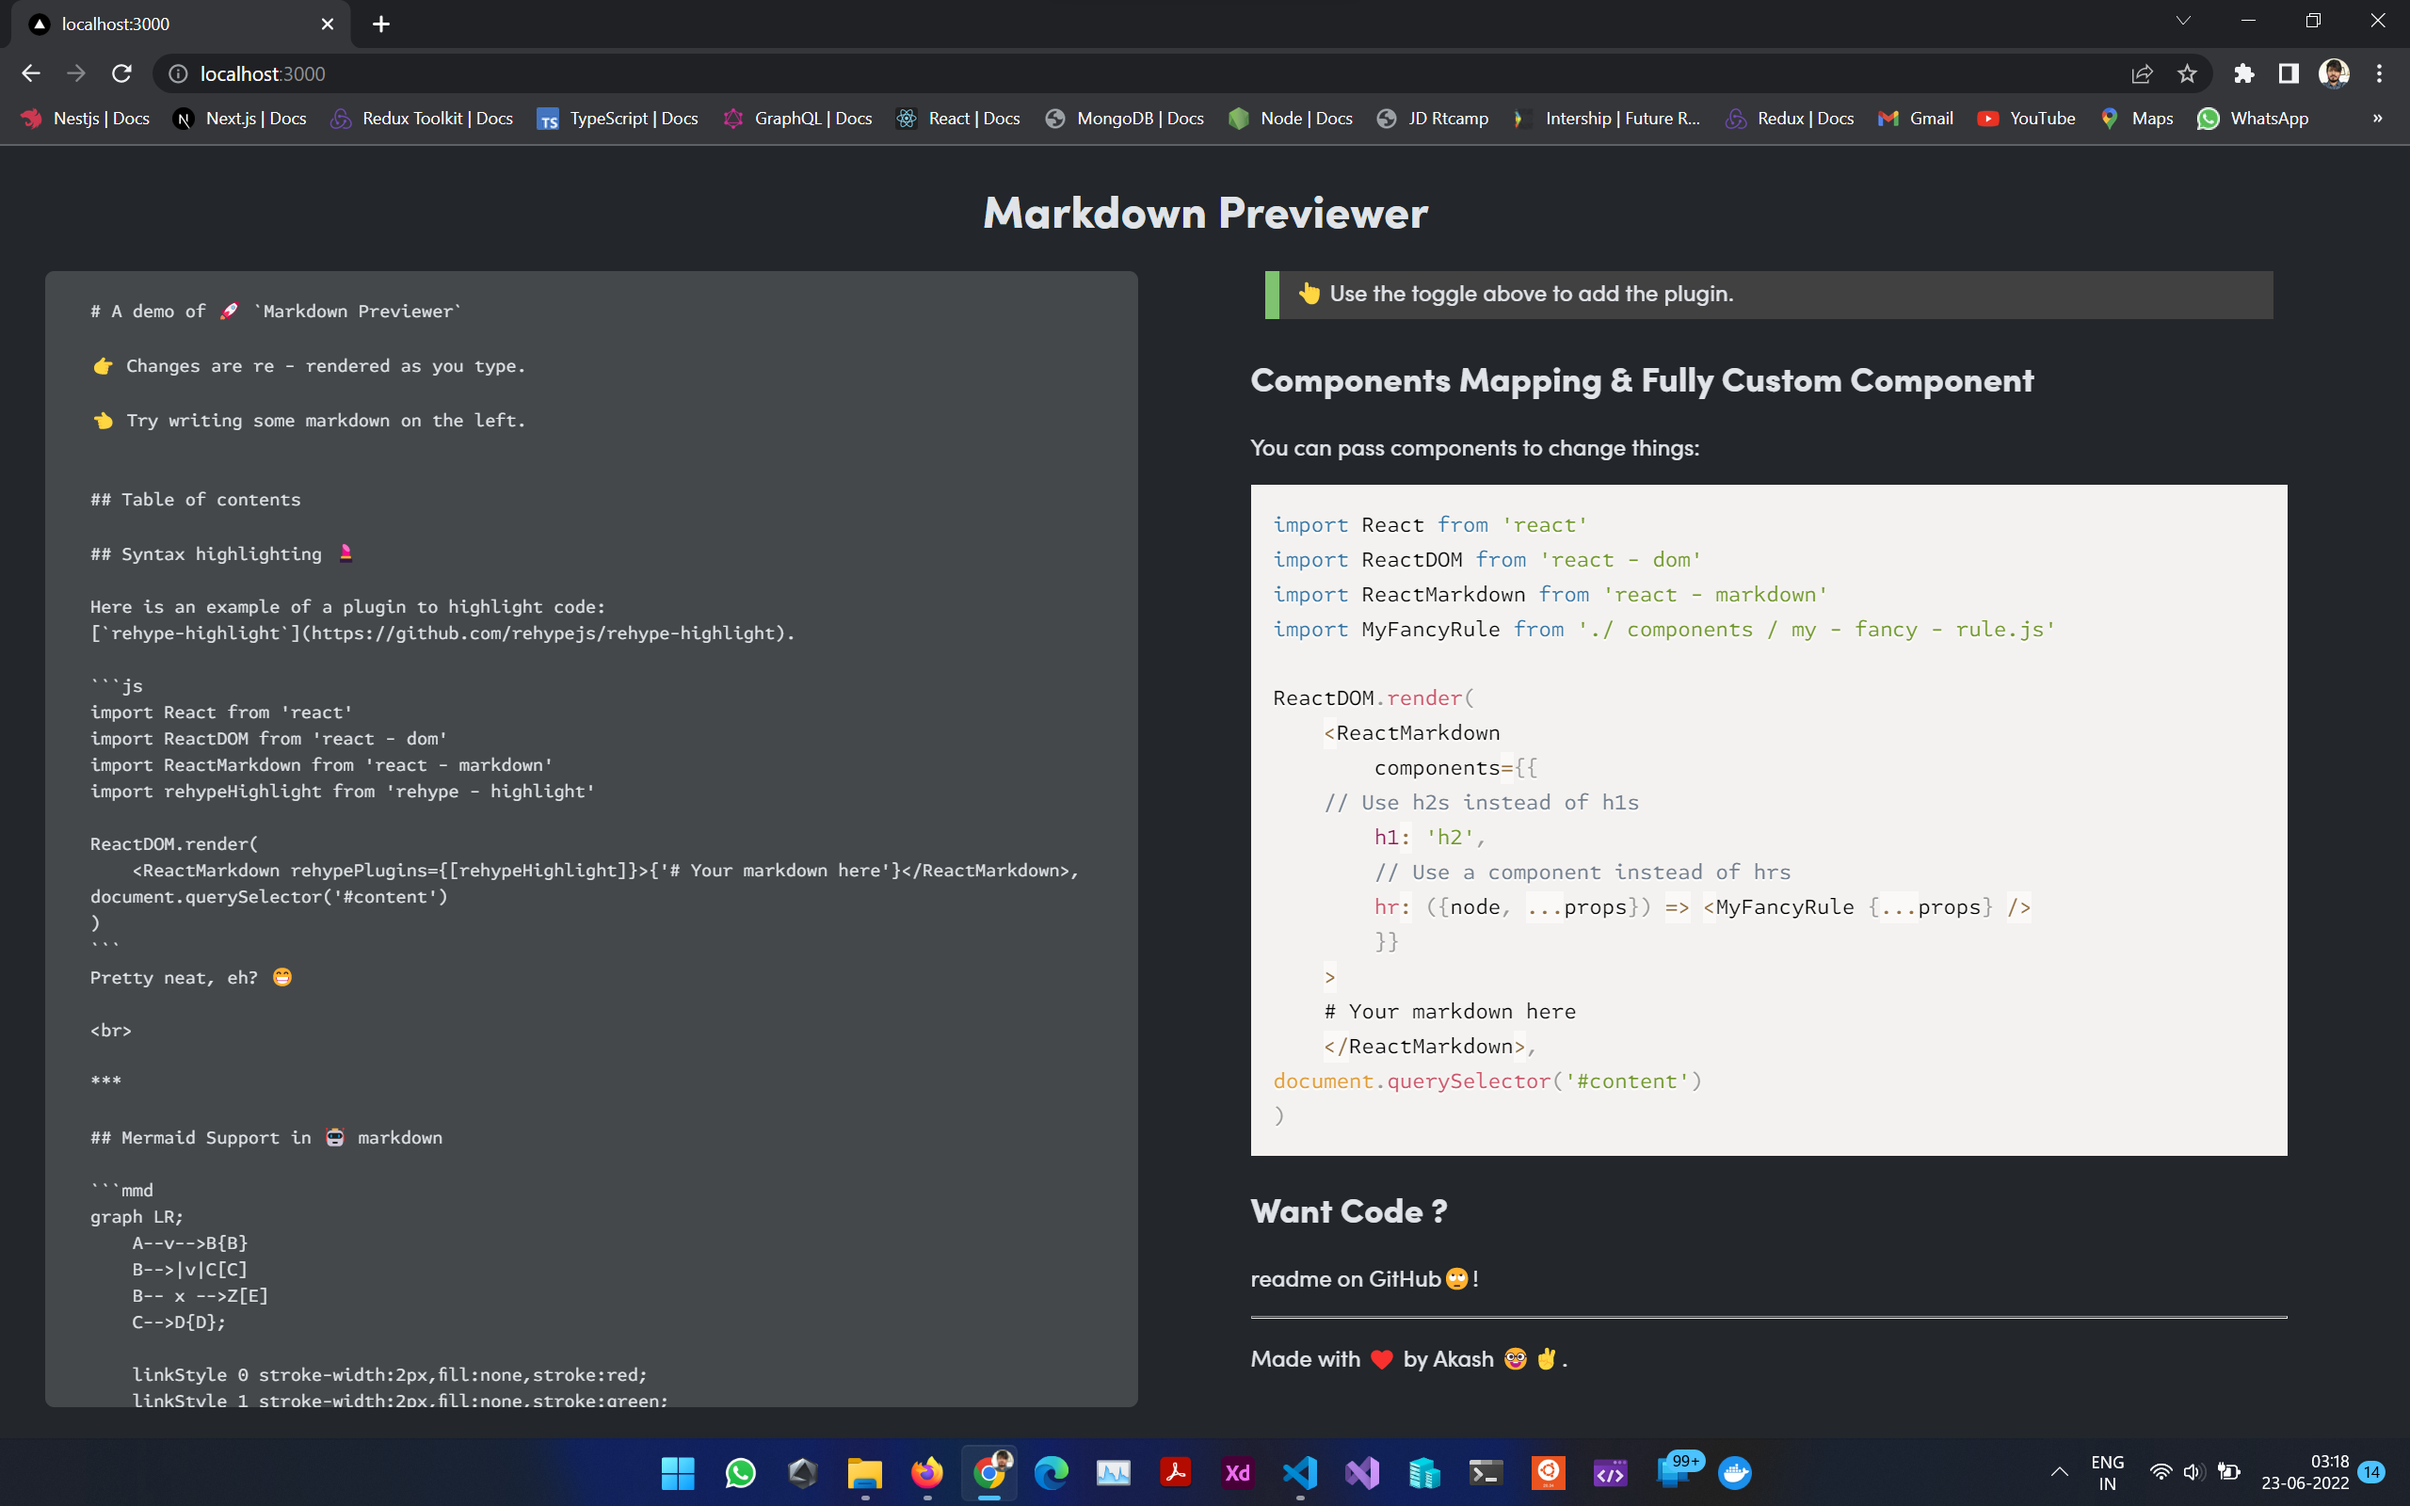
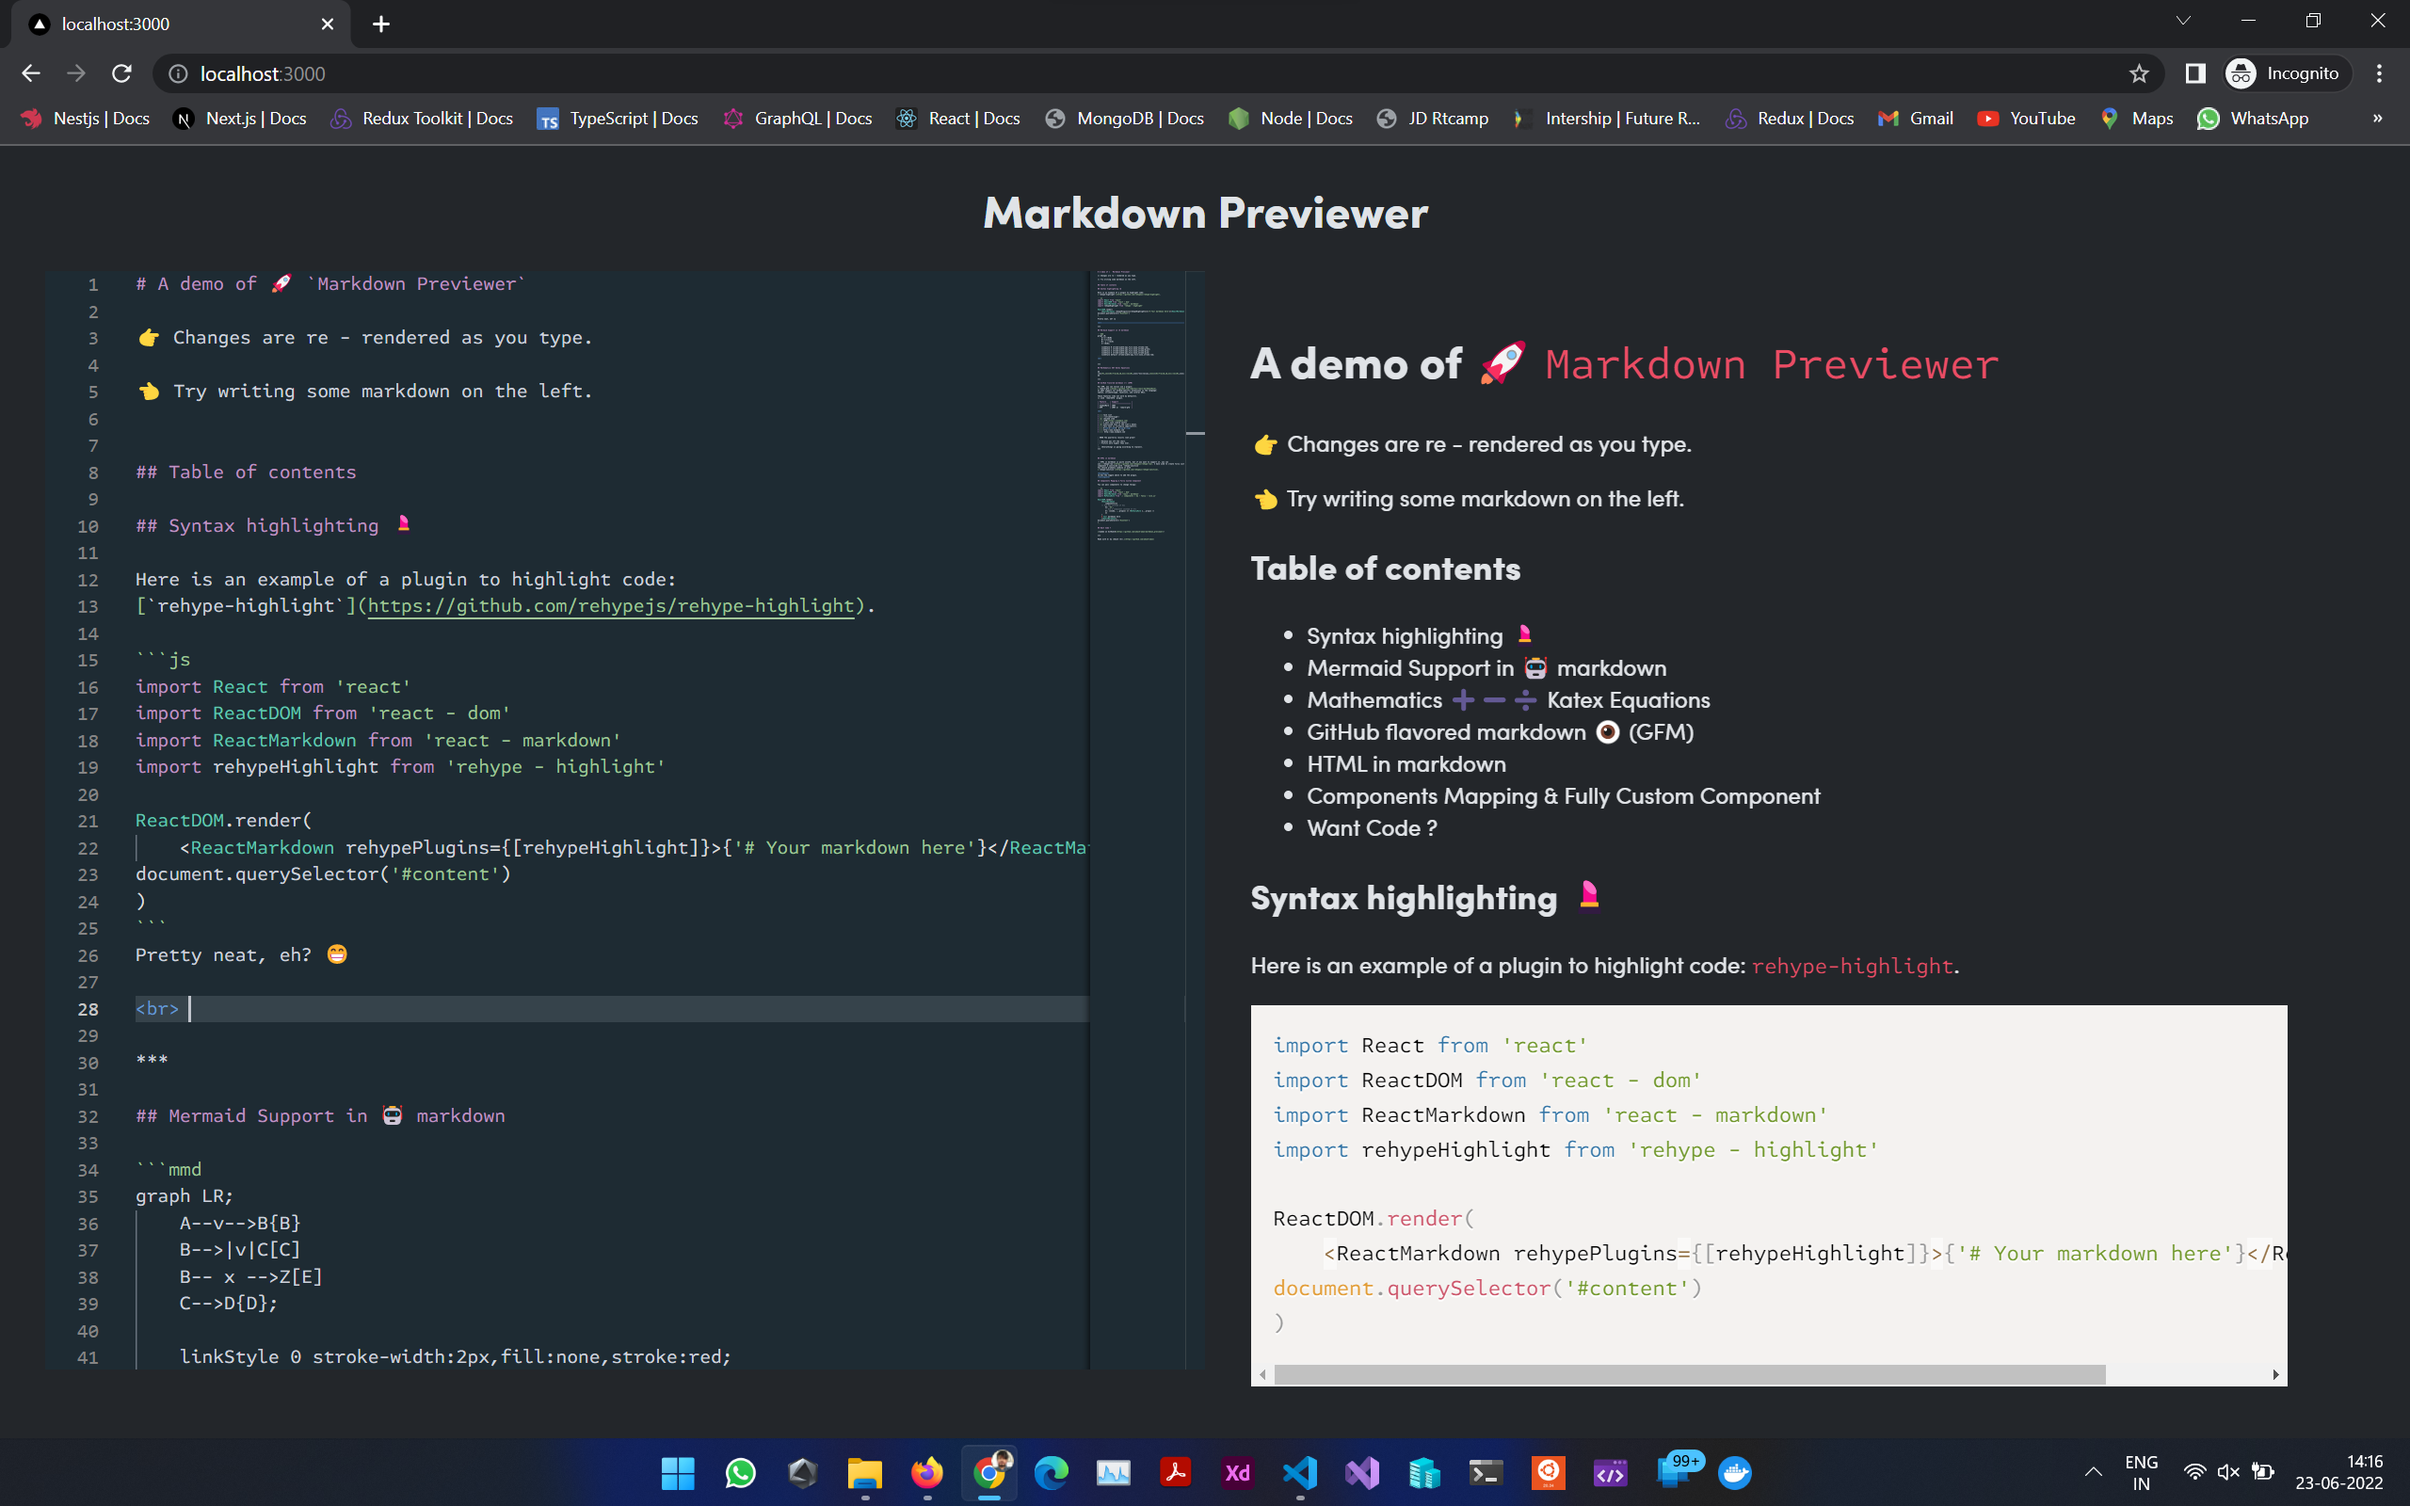
🚀🤓 Added Monaco Editor
Feel the vs code

diff --git a/plugins/theme.js b/plugins/theme.js
@@ -1,0 +1,67 @@
+import { loader } from "@monaco-editor/react";
+
+const monacoThemes = {
+    active4d: "Active4D",
+    "all-hallows-eve": "All Hallows Eve",
+    amy: "Amy",
+    "birds-of-paradise": "Birds of Paradise",
+    blackboard: "Blackboard",
+    "brilliance-black": "Brilliance Black",
+    "brilliance-dull": "Brilliance Dull",
+    "chrome-devtools": "Chrome DevTools",
+    "clouds-midnight": "Clouds Midnight",
+    clouds: "Clouds",
+    cobalt: "Cobalt",
+    dawn: "Dawn",
+    dreamweaver: "Dreamweaver",
+    eiffel: "Eiffel",
+    "espresso-libre": "Espresso Libre",
+    github: "GitHub",
+    idle: "IDLE",
+    katzenmilch: "Katzenmilch",
+    "kuroir-theme": "Kuroir Theme",
+    lazy: "LAZY",
+    "magicwb--amiga-": "MagicWB (Amiga)",
+    "merbivore-soft": "Merbivore Soft",
+    merbivore: "Merbivore",
+    "monokai-bright": "Monokai Bright",
+    monokai: "Monokai",
+    "night-owl": "Night Owl",
+    "oceanic-next": "Oceanic Next",
+    "pastels-on-dark": "Pastels on Dark",
+    "slush-and-poppies": "Slush and Poppies",
+    "solarized-dark": "Solarized-dark",
+    "solarized-light": "Solarized-light",
+    spacecadet: "SpaceCadet",
+    sunburst: "Sunburst",
+    "textmate--mac-classic-": "Textmate (Mac Classic)",
+    "tomorrow-night-blue": "Tomorrow-Night-Blue",
+    "tomorrow-night-bright": "Tomorrow-Night-Bright",
+    "tomorrow-night-eighties": "Tomorrow-Night-Eighties",
+    "tomorrow-night": "Tomorrow-Night",
+    tomorrow: "Tomorrow",
+    twilight: "Twilight",
+    "upstream-sunburst": "Upstream Sunburst",
+    "vibrant-ink": "Vibrant Ink",
+    "xcode-default": "Xcode_default",
+    zenburnesque: "Zenburnesque",
+    iplastic: "iPlastic",
+    idlefingers: "idleFingers",
+    krtheme: "krTheme",
+    monoindustrial: "monoindustrial",
+};
+
+const defineTheme = (theme) => {
+    return new Promise((res) => {
+        Promise.all([
+            loader.init(),
+            import(`monaco-themes/themes/${monacoThemes[theme]}.json`),
+        ]).then(([monaco, themeData]) => {
+            monaco.editor.defineTheme(theme, themeData);
+            
+            res();
+        });
+    });
+};
+
+export { defineTheme };

diff --git a/pages/index.js b/pages/index.js
@@ -1,5 +1,7 @@
-import React from 'react'
+import React, { useEffect } from 'react'
 import ReactMarkdown from 'react-markdown'
+import Editor from "@monaco-editor/react";
+import oceanicNext from 'monaco-themes/themes/Oceanic Next.json'
 //------------------------------------------------------------------------
 // Added necessary plugins : 
 //  - remarkGfm for github markdown flavour
@@ -24,7 +26,10 @@ import rehypeSanitize from '../plugins/rehypeSanitize'
 //--------------------------------------------------------- 
 import MultiCode from '../components/MultiCode'
 import CodeBlock from '../components/CodeBlock'
+
 import data from '../data'
+import { defineTheme } from '../plugins/theme';
+import { useState } from 'react';
 const Index = () => {
 
   const [markdownText, setMarkdownText] = React.useState(data.data)
@@ -32,6 +37,14 @@ const Index = () => {
     multicode: MultiCode,
     code: CodeBlock
   }
+
+  const [theme, setTheme] = useState()
+
+  useEffect(() => {
+    defineTheme("oceanic-next").then((_) =>
+      setTheme({ value: "oceanic-next", label: "Oceanic Next" })
+    );
+  }, []);
 
   return (
 
@@ -44,7 +57,21 @@ const Index = () => {
           margin: "0 2rem 0 2rem",
         }}
       >
-        <textarea
+        <div className="textarea">
+          <Editor
+            height="85vh"
+            width={`100%`}
+
+            
+            spellCheck="false"
+            language={"markdown"}
+            value={markdownText}
+            theme={"oceanic-next"}
+            defaultValue="// some comment"
+            onChange={(e) => e ? setMarkdownText(e) : null}
+          />
+        </div>
+        {/* <textarea
           value={markdownText}
           spellCheck="false"
           className='textarea'
@@ -63,7 +90,7 @@ const Index = () => {
               e.target.setSelectionRange(curser + 1, curser + 1)
             }
           }}
-        />
+        /> */}
         <div className='render'>
           <ReactMarkdown
 

diff --git a/styles/globals.css b/styles/globals.css
@@ -213,9 +213,7 @@
   text-rendering: auto;
 }
 
-* {
-  font-family: "MyWebFont", sans-serif;
-}
+
 
 
 a {
@@ -1403,24 +1401,6 @@ img{
   width: 50vw;
 }
 
-.textarea{
-  background-color: rgba(195, 195, 195, 0.215);
-  border: none;
-  border-radius: 0.4rem;
-  padding: 1.1rem 0.5rem 0.5rem 2rem;
-  color: hsla(210, 14%, 89%, 1);
-  scroll-behavior: auto;  
-  min-height: 85vh;
-  max-height: 85vh;
-  max-width: 43vw;
-  min-width: 40vw;
-  overflow: scroll;
-    -ms-overflow-style: none;
-      /* IE and Edge */
-      scrollbar-width: none;
-      font-family: "MyCodeFont";
-
-}
 .render{
   padding: 1.1rem 0.5rem 0.5rem 2rem;
   scroll-behavior: auto;
@@ -1441,6 +1421,7 @@ body{
   margin: 0;
   padding: 0;
   scroll-behavior: smooth;
+  font-family: 'MyWebFont';
 }
 
 code {
@@ -1470,12 +1451,13 @@ blockquote {
  /* Hide scrollbar for Chrome, Safari and Opera */
  .render::-webkit-scrollbar {
    display: none;
+   background-color: transparent;
  }
 
  /* Hide scrollbar for IE, Edge and Firefox */
 
-.textarea::-webkit-scrollbar {
-  display: none;
+.textarea{
+  border-radius: 2rem;
 }
 
 pre span{
@@ -1492,4 +1474,9 @@ pre span{
 
 .katex-mathml{
   display: none;
+}
+
+
+.monaco-mouse-cursor-text{
+  font-family: 'MyCodeFont'!important;
 }

diff --git a/components/Editor.js b/components/Editor.js
@@ -1,0 +1,27 @@
+import React, { useState } from "react";
+
+import Editor from "@monaco-editor/react";
+
+const CodeEditorWindow = ({ onChange, language, code, theme }) => {
+    const [value, setValue] = useState(code || "");
+
+    const handleEditorChange = (value) => {
+        setValue(value);
+        onChange("code", value);
+    };
+
+    return (
+        <div className="overlay rounded-md overflow-hidden w-full h-full shadow-4xl">
+            <Editor
+                height="85vh"
+                width={`100%`}
+                language={language || "javascript"}
+                value={value}
+                theme={theme}
+                defaultValue="// some comment"
+                onChange={handleEditorChange}
+            />
+        </div>
+    );
+};
+export default CodeEditorWindow;
